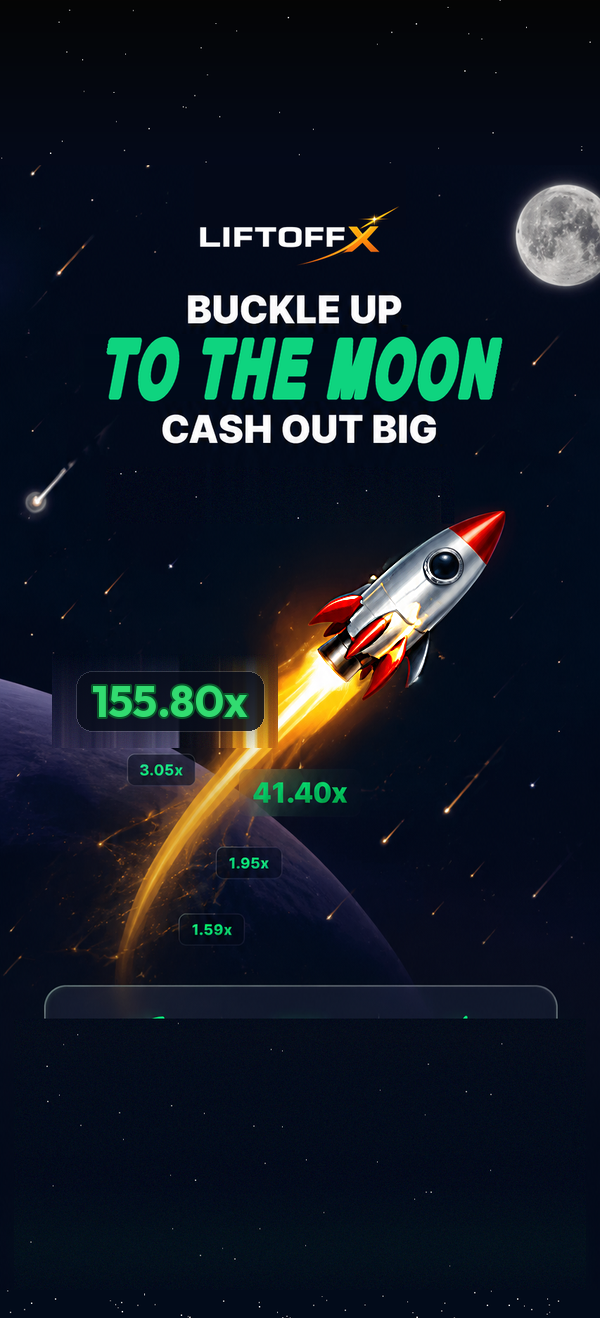
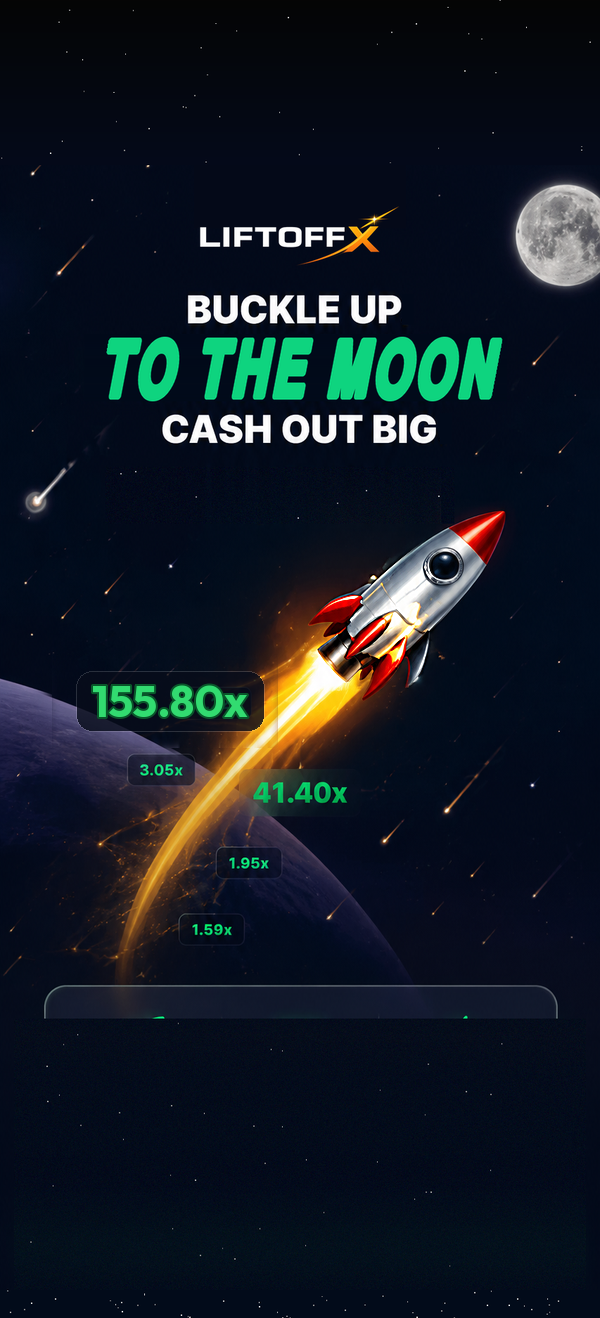
Splash tile: clean restore (no ruis); flame: thruster kick at lift-off + fuller body
- 155.80x tile: restore the surrounding planet/space from the full-res original
  instead of a flat reconstruction, so the rectangular noise patch around the
  tile is gone.
- Flame: fire the thrusters hard right at lift-off (a launch kick that fades over
  the first ~1.8s) and make the curved flame body a bit longer/wider, so a strong
  thruster flame streams out from the moment of take-off and the tail runs down
  the middle of the flame the whole run, in every position.

Changed region(s): [[0.09, 0.5288, 0.3, 0.591], [0.39, 0.4977, 0.48, 0.591]]

diff --git a/rocketrush/app/game-engine.ts b/rocketrush/app/game-engine.ts
@@ -596,7 +596,11 @@ function draw(ts){ if(!ENGINE_ALIVE) return;
           life:1, fade:rnd(.05,.085), r:rnd(1.3,boosting?3.6:3.0), glow:true,
           c: Math.random()<.45?'#FFE08A':(Math.random()<.6?'#FF8A00':'#FF5A2A')});
       }
-      const boost = Math.max(0, Math.min(1, (S.mult-1.66)/0.54));
+      // Fire the thrusters hard right at LIFT-OFF (a launch kick that fades over the first
+      // ~1.8s) and again when the music boost hits at 1.66x — so a big thruster flame is
+      // already streaming out the moment the rocket leaves the pad.
+      const launchKick = Math.max(0, 1 - tt/1.8);
+      const boost = Math.max(0, Math.min(1, Math.max(launchKick, (S.mult-1.66)/0.54)));
       if(!crashed) drawCurvedFlame(tt, boost);   // thick flame that hugs the trail curve, UNDER the body
       drawRocket(p.x, ry, ang);
     } else {
@@ -634,7 +638,7 @@ function loadArt(){
 function drawCurvedFlame(tt, boost){
   const SCt = rocketScale();
   const flick = 0.92 + 0.16*Math.sin(performance.now()/26);   // subtle live length flicker
-  const target = (20 + 9*boost) * SCt * flick;                // flame length in px
+  const target = (24 + 10*boost) * SCt * flick;                // flame length in px
   const pts=[rocketPos(tt)], dist=[0];
   let prev=pts[0], acc=0, bt=tt; const dt=Math.max(0.012, tt*0.01);
   while(bt>0 && acc<target && pts.length<64){
@@ -643,7 +647,7 @@ function drawCurvedFlame(tt, boost){
     if(bt<=0) break;
   }
   if(pts.length<2) return;
-  const L=acc||1, baseHW=(4.6 + 1.5*boost) * SCt;
+  const L=acc||1, baseHW=(5.0 + 1.6*boost) * SCt;
   const ribbon=(wmul, style)=>{
     ctx.beginPath();
     const edge=(sgn)=>{